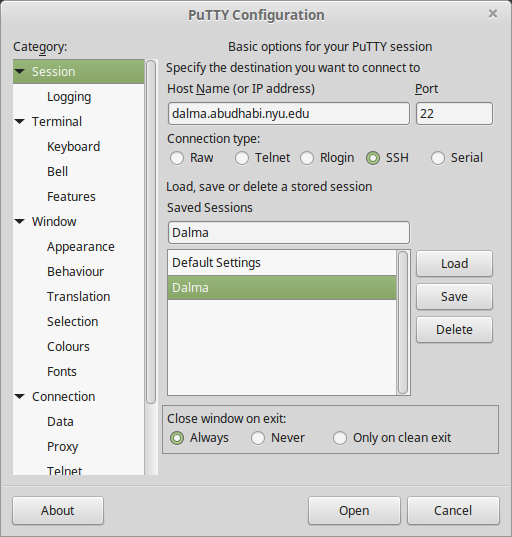
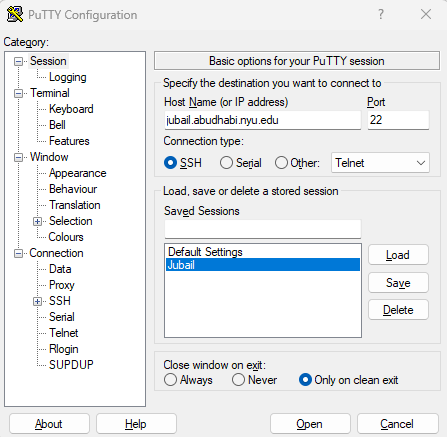
Update MATLAB and Account access

diff --git a/source/hpc/software/matlab_parallel.rst b/source/hpc/software/matlab_parallel.rst
@@ -27,6 +27,8 @@ The Slurm script (job.slurm) below can be used for serial jobs:
 
     #Run Matlab via command line
     matlab -nojvm -singleCompThread -batch hello_world
+    #Wait for a minute
+    sleep 60
 
 By invoking MATLAB with ``-nojvm -singleCompThread -batch``, the GUI and the background java processes are
 suppressed as is the creation of multiple threads. 
@@ -39,7 +41,7 @@ To run the MATLAB script, simply submit the job to the scheduler with the follow
 
 .. note::
     Matlab GUI can be launched from the ``Interactive Apps`` section of our HPC Web Interface,
-    https://ood.hpc.abuhdabi.nyu.edu (VPN Required). More info on the HPC Web Interface can be found :doc:`here </hpc/ood/index>`.
+    https://ood.hpc.abudhabi.nyu.edu (VPN Required). More info on the HPC Web Interface can be found :doc:`here </hpc/ood/index>`.
     It is recommended you use the GUI for testing/debugging purposes. For the actual/production runs, command line/batch mode is 
     recommended as it reduces the overhead created by processes/java threads in the background.
 
@@ -100,6 +102,13 @@ The Slurm script (``job.slurm``) below can be used for this case:
     #Run the matlab script
     matlab -batch hello_world_threaded
 
+
+The job can be submitted to the scheduler with:
+
+.. code-block:: bash
+
+    sbatch job.slurm
+
 Note that ``-singleCompThread`` and ``-nojvm`` does not appear in the Slurm script in contrast to the serial case. 
 
 One must tune the value of ``--cpus-per-task`` for optimum performance, use the smallest value for ``--cpus-per-task`` that gives you a significant performance boost because the more resources you 
@@ -119,7 +128,7 @@ request the longer your queue time will be. Furthermore, your fairshare value is
 Running MATLAB on GPUs
 ----------------------
 
-Many routines in MATLAB have been written to run on a GPU. Below is a MATLAB script (matlab_gpu.m) that prints out information about the GPU device:
+Many routines in MATLAB have been written to run on a GPU. Below is a MATLAB script (``matlab_gpu.m``) that prints out information about the GPU device:
 
 .. code-block:: matlab
 

diff --git a/source/hpc/system/access_jubail.rst b/source/hpc/system/access_jubail.rst
@@ -95,7 +95,7 @@ Windows
 
 We recommend Mobaxterm/Putty as your ssh client. Putty is available for download here: http://www.chiark.greenend.org.uk/~sgtatham/putty/download.html. 
 
-1. (First-time login only) Setup Butinah session in your putty.
+1. (First-time login only) Setup Jubail session in your putty.
     a. Open Putty. Go to Category -> Session. 
     b. Type jubail.abudhabi.nyu.edu in Host Name (or IP address).
     c. Type Jubail under Saved Sessions.
